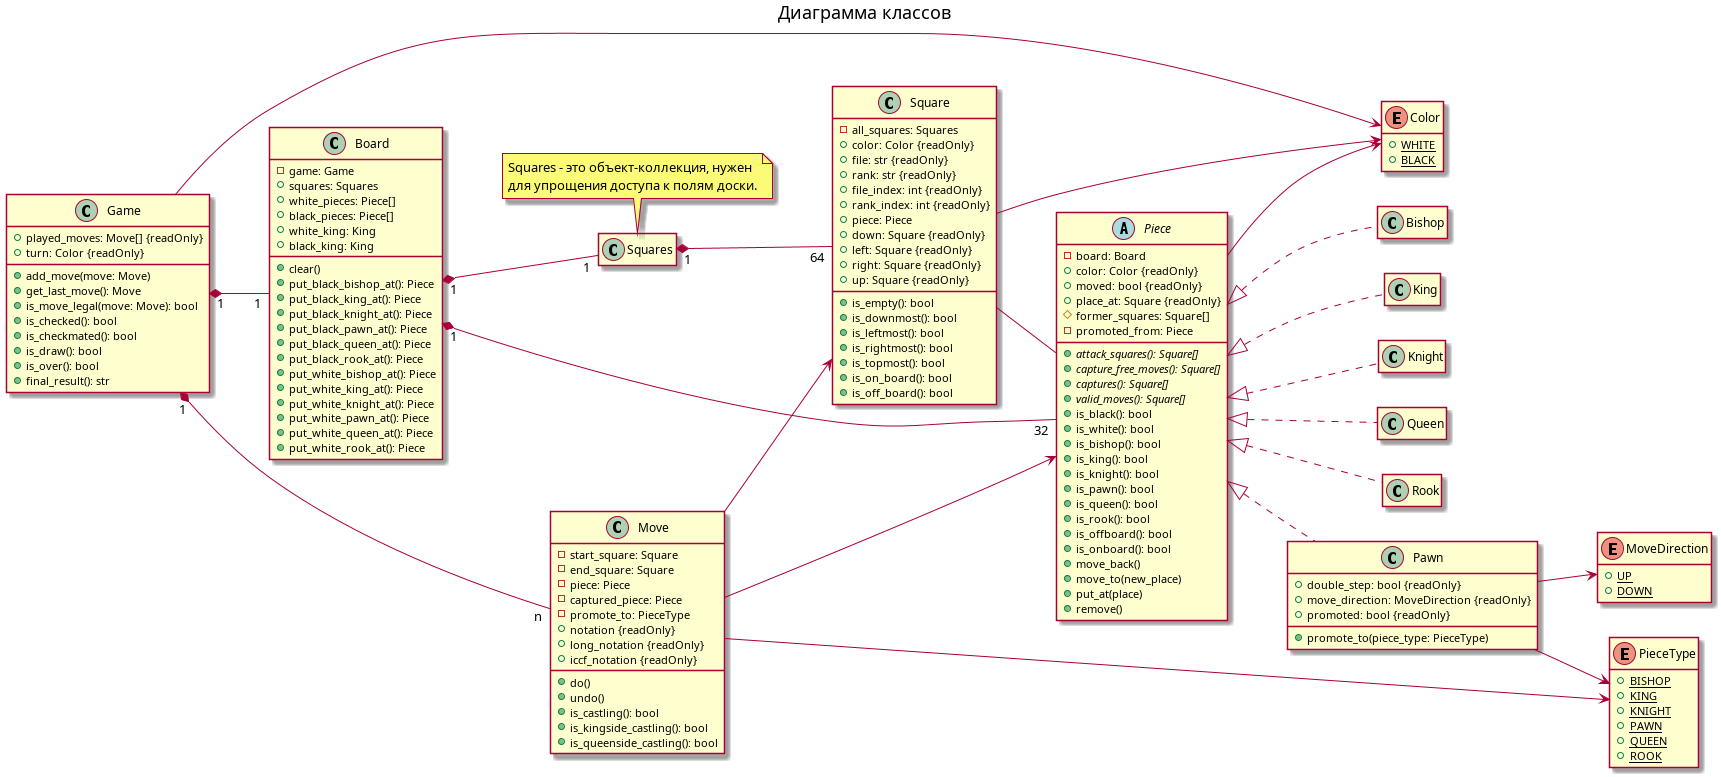
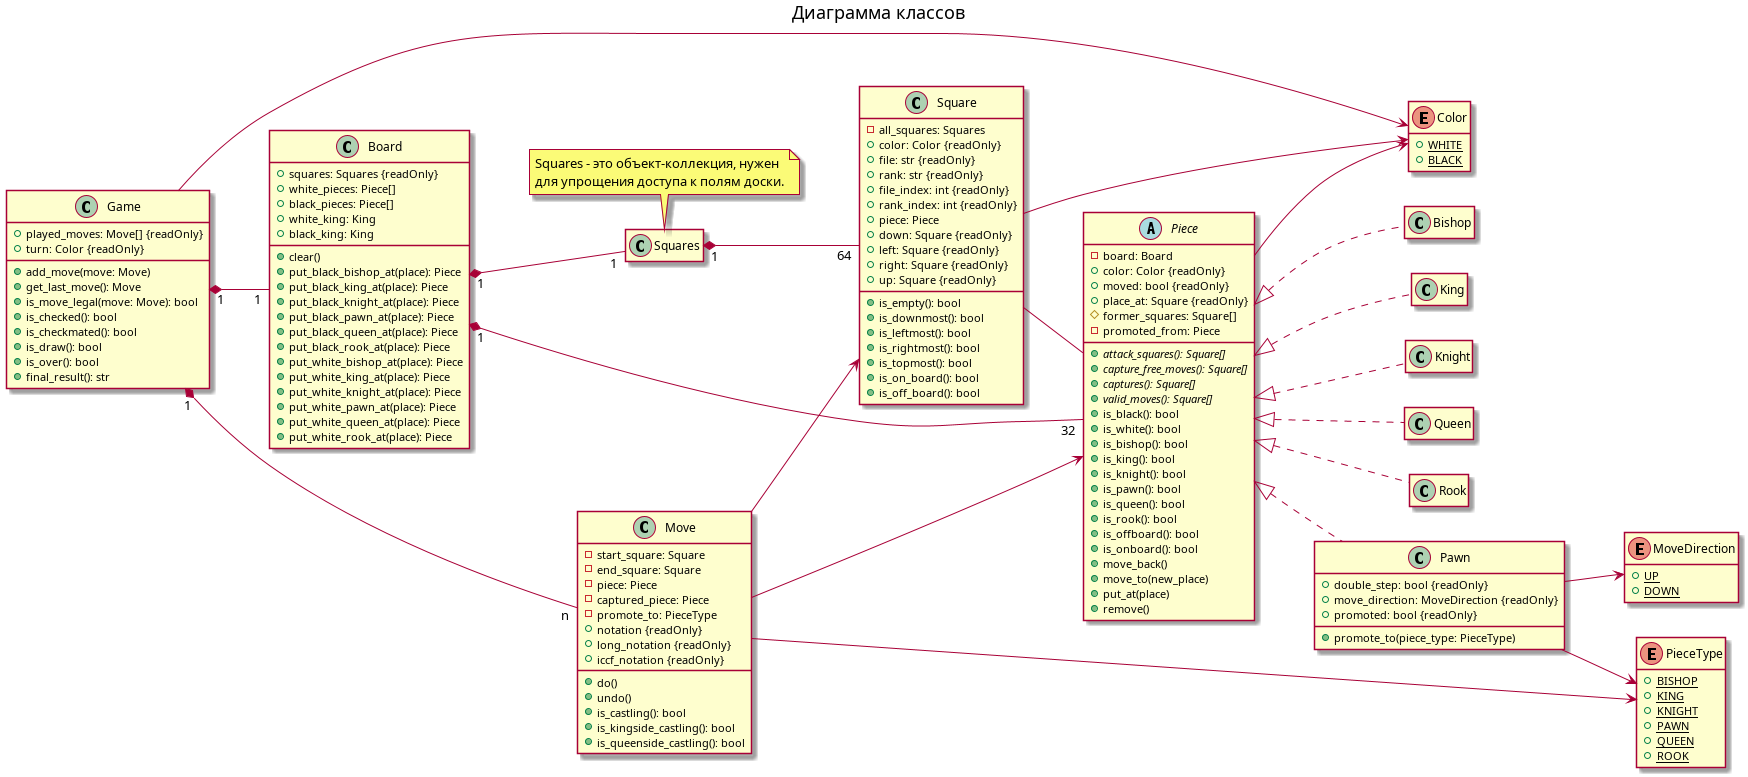
Дополнил и исправил документацию.

diff --git a/docs/chess.md b/docs/chess.md
@@ -2,7 +2,27 @@
 
 ## Board
 
-Шахатная доска.
+Шахматная доска.
+
+Этот класс, как и все остальные, реализует логическое представление доски в
+программе, а не её визуальное отображение.
+
+### Атрибуты Board
+
+* **black_king** - чёрный король;
+* **black_pieces** - список чёрных фигур, находящихся на доске
+(снятые из этого списка исключаются);
+* **squares** - [все поля](#squares) доски;
+* **white_king** - белый король;
+* **white_pieces** - список белых фигур, находящихся на доске
+(снятые из этого списка исключаются).
+
+### Методы Board
+
+* **clear()** - убирает все фигуры с доски;
+* **put_..._..._at(place)** - ставит фигуру на доску.
+Аргумент **place** может быть строкой с координатами поля (например, "c7" или
+"G5") либо ссылкой на объект [Square](#square).
 
 ## Piece
 
@@ -31,6 +51,38 @@
 поставить фигуру после создания; значение по умолчанию - **None**;
 4. **promoted_from** *(необязательный аргумент)* - ссылка на другую фигуру
 (пешку), превращением из которой была создана данная фигура.
+
+### attack_squares()
+
+**Это абстрактный метод, реализуется в подклассах!**
+
+Должен возвращать список [полей](#square), которые фигура может атаковать.
+
+Под атакой имеется в виду, что на этом поле фигура может произвести взятие,
+либо могла бы, если бы на этом поле стояла фигура противоположного цвета.
+
+При генерации ходов в этом методе не делается проверка на шах,
+то есть допустимы ходы, которые оставляют своего короля под шахом.
+
+### capture_free_moves()
+
+**Это абстрактный метод, реализуется в подклассах!**
+
+Должен возвращать список [полей](#square), на которые фигура может перейти из
+текущей позиции без взятия.
+
+При генерации ходов в этом методе не делается проверка на шах,
+то есть допустимы ходы, которые оставляют своего короля под шахом.
+
+### captures()
+
+**Это абстрактный метод, реализуется в подклассах!**
+
+Должен возвращать список [полей](#square), на которых фигура может совершить
+взятие из текущий позиции.
+
+При генерации ходов в этом методе не делается проверка на шах,
+то есть допустимы ходы, которые оставляют своего короля под шахом.
 
 ### is_bishop()
 
@@ -180,6 +232,16 @@
 Значение атрибута **piece** того [квадрата](#square), на котором стояла
 фигура, меняет на **None**.
 
+### valid_moves()
+
+**Это абстрактный метод, реализуется в подклассах!**
+
+Должен возвращать список всех [полей](#square), на которые фигура может
+перейти из текущей позиции.
+
+При генерации ходов в этом методе не делается проверка на шах,
+то есть допустимы ходы, которые оставляют своего короля под шахом.
+
 ## Square
 
 Поле шахматной доски.
@@ -217,6 +279,20 @@
 1. **all_squares** - объект класса [Squares](#squares), все поля доски;
 2. **file_index** - индекс столбца в котором находится поле;
 3. **rank_index** - индекс строки в которой находится поле.
+
+### Методы Square
+
+* **is_downmost()** - возвращает истину, если поле находится в самой нижней
+горизонтали (1), иначе - ложь;
+* **is_empty()** - возвращает истину, если на поле стоит фигура, иначе - ложь;
+* **is_leftmost()** - возвращает истину, если поле находится в самой левой вертикали (a), иначе - ложь;
+* **is_off_board()** - возвращает истину, если это "виртуальное" поле,
+расположеное за пределами доски, иначе ложь;
+* **is_on_board()** - возвращает истину, если поле расположено в пределах
+доски, иначе ложь;
+* **is_rightmost()** - возвращает истину, если поле находится в самой правой вертикали (h), иначе - ложь;
+* **is_topmost()** - возвращает истину, если поле находится в самой верхней
+горизонтали (8), иначе - ложь.
 
 ## Squares
 
